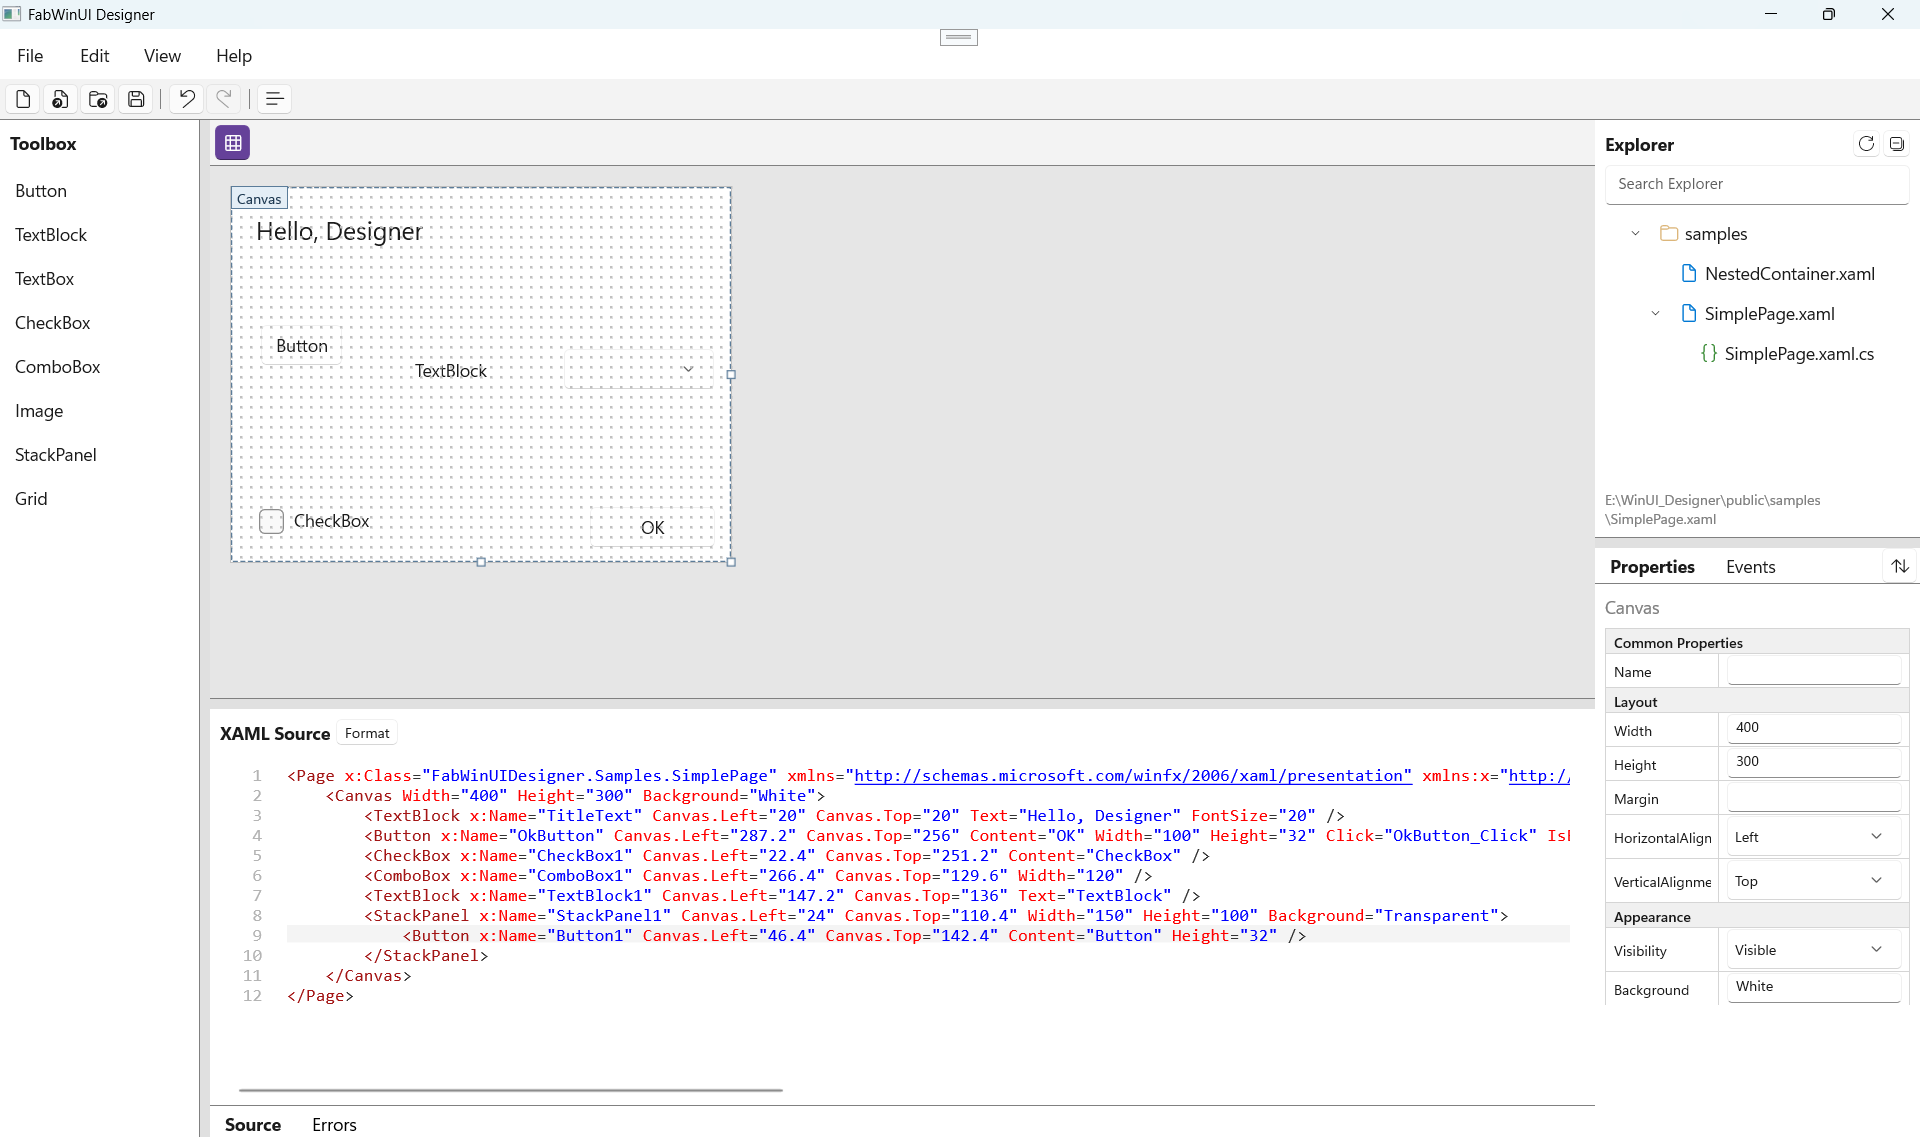
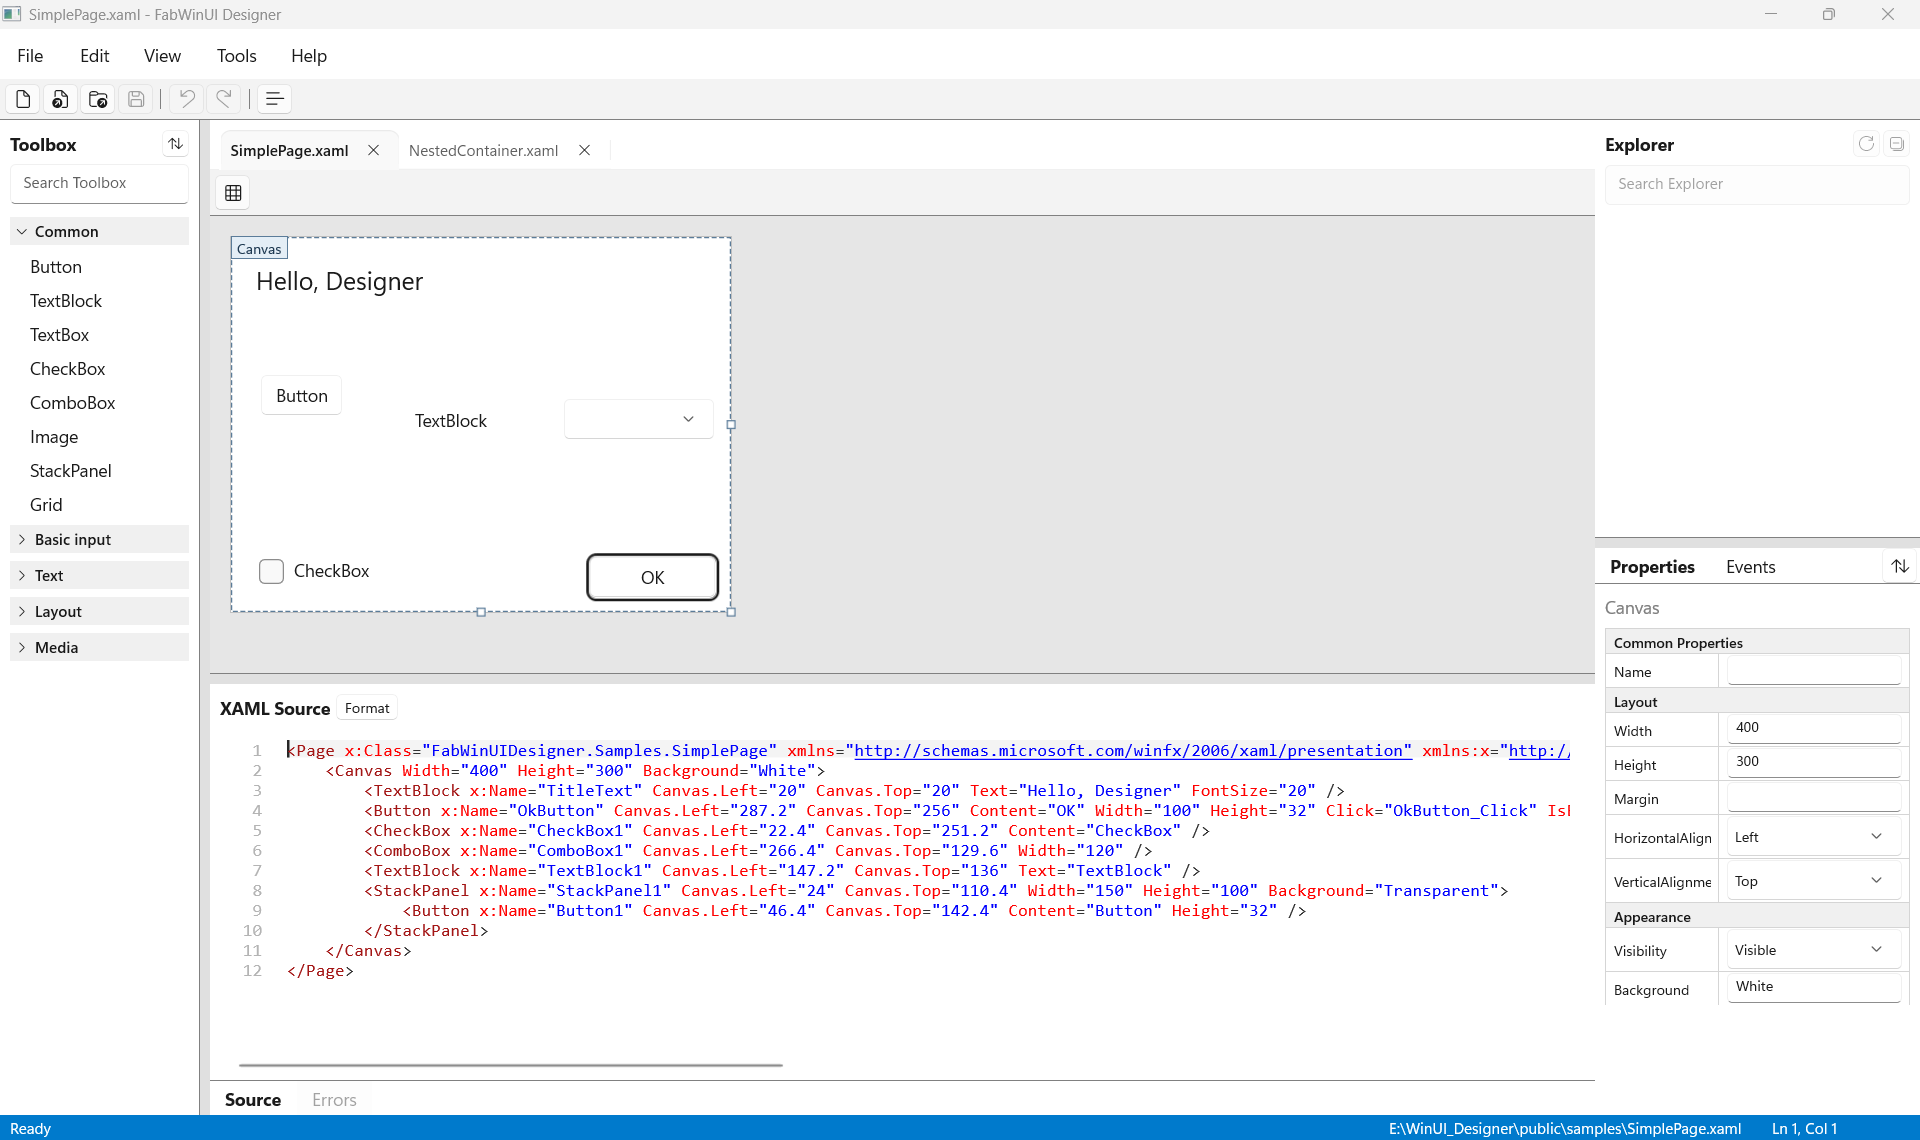
Update README and screenshot for tabs, Toolbox groups and Options
Describes the features added since the last README update: several
files open in tabs, the grouped/searchable Toolbox with defaults from
the metadata JSON, Tools > Options (including custom metadata files),
and where the designer keeps its settings under %LocalAppData%. Moves
tabs and Toolbox groups out of "What's next", and refreshes the
screenshot.

diff --git a/README.md b/README.md
@@ -26,8 +26,11 @@ app to place controls, edit their properties, and generate/round-trip real, hand
   invalid XAML and a one-click reformat.
 - Event wiring: name a handler in the Events tab and a matching stub is generated into the
   page's `.xaml.cs` code-behind on save (Roslyn-based).
-- A Visual Studio-style shell: main menu and toolbar, an Explorer panel for the opened folder, and
-  a status bar.
+- Several `.xaml` files open at once, one per tab, each with its own undo history. The open tabs
+  are reopened on the next start.
+- A Toolbox grouped by category (or one alphabetical list), with a search box.
+- A Visual Studio-style shell: main menu and toolbar, an Explorer panel for the opened folder, a
+  status bar, and a Tools → Options dialog.
 
 ## What's supported
 
@@ -36,13 +39,16 @@ app to place controls, edit their properties, and generate/round-trip real, hand
 | Controls | `Button`, `TextBlock`, `TextBox`, `CheckBox`, `ComboBox`, `Image`, `StackPanel`, `Grid` |
 | Layout | Canvas-based absolute positioning (`Canvas.Left`/`Top`, `Width`/`Height`) for v1, optional snap-to-grid. The root element stays in place (resizable from its right/bottom edges only) |
 | Selection | Single-select, move, 8-handle resize |
-| Properties | Property grid with a Properties and an Events tab, grouped by category or alphabetical. Per-control property/event lists come from JSON metadata files next to the app, since WinUI controls carry no design-time metadata to discover them automatically |
+| Toolbox | Click-to-add, grouped by category (collapsible groups, Common open by default) or one alphabetical list, with search. Groups and each control's starting attributes (content, size) come from the metadata JSON |
+| Properties | Property grid with a Properties and an Events tab, grouped by category or alphabetical. Per-control property/event lists come from JSON metadata files next to the app, since WinUI controls carry no design-time metadata to discover them automatically. You can point the designer at metadata files of your own (Tools → Options) |
 | XAML source | Editable, syntax-highlighted, applied after a typing pause; the caret selects the element it's in on the design surface; inline error reporting; Format Document |
 | Code-behind | Event-handler stubs generated into the paired `.xaml.cs` on save |
-| File I/O | New/Open/Save/Save As, Recent Files/Folders, Explorer panel (search, refresh, file-type icons, `.xaml.cs` nested under its `.xaml`). Asks to reload when the open file is changed by another program |
-| Shell | Main menu (File/Edit/View/Help) with Ctrl+N/O/Shift+O/S/Z/Y shortcuts, toolbar, status bar (last action, file path, caret line/column), unsaved `*` in the window title |
+| Tabs | One tab per open file, each with its own undo history. Unsaved `*` on the tab. Opening a file that's already open switches to its tab. Switching back restores the caret, scroll positions, selection and XAML typed but not applied yet. Close with the tab's X or Ctrl+W; Save / Don't Save / Cancel for unsaved changes, on closing a tab and on exit. Tabs are reopened on start (can be turned off) |
+| File I/O | New/Open/Save/Save As/Close, Recent Files/Folders, Explorer panel (search, refresh, file-type icons, `.xaml.cs` nested under its `.xaml`). Asks to reload when an open file is changed by another program |
+| Shell | Main menu (File/Edit/View/Tools/Help) with Ctrl+N/O/Shift+O/S/W/Z/Y shortcuts, toolbar, status bar (last action, file path, caret line/column), unsaved `*` in the window title |
+| Options | Tools → Options: grid size, snap to grid, new page background, XAML editor font size and background, apply-after-typing delay, reopening tabs on start, Recent list length, custom metadata files |
 | Undo/Redo | Whole-document snapshots |
-| Not yet | Several files open in tabs (planned next — see below), multi-select, data binding UI, more controls |
+| Not yet | More controls (planned next — see below), multi-select, data binding UI |
 
 ## Requirements
 
@@ -77,6 +83,19 @@ dotnet test tests/FabWinUIDesigner.CodeGen.Tests/FabWinUIDesigner.CodeGen.Tests.
 - `tests/` — MSTest projects for the two pure-.NET layers.
 - `samples/` — example `.xaml` files used by the app and its tests.
 
+## Where settings are kept
+
+Everything the designer remembers lives in `%LocalAppData%\FabWinUIDesigner`:
+
+| File | Contents |
+|---|---|
+| `settings.json` | Tools → Options choices (the dialog shows this path, with an Open folder link) |
+| `layout.json` | Panel sizes and view toggles (snap to grid, alphabetical views, expanded Toolbox groups) |
+| `open-tabs.json` | The tabs open at the last exit |
+| `recent.json` | Recent Files and Recent Folders |
+
+Deleting a file resets what it holds to the defaults.
+
 ## Syntax highlighting
 
 The XAML source view uses [TextControlBox-WinUI](https://github.com/FrozenAssassine/TextControlBox-WinUI)
@@ -85,9 +104,10 @@ palette.
 
 ## What's next
 
-- Several XAML files open at the same time, one per tab.
-- A Toolbox ready for many more controls (groups, search, alphabetical view), then a much wider
-  control set.
+- A much wider control set (around 80 controls from the WinUI Gallery), starting with metadata
+  shared through base classes so common properties are listed once.
+- More property editors (corner radius, fonts, images, icons, dates...) and attached properties
+  (`Grid.Row`, `AutomationProperties.Name`, ...).
 - Multi-select, alignment guides, and a Grid row/column editor.
 
 ## License
